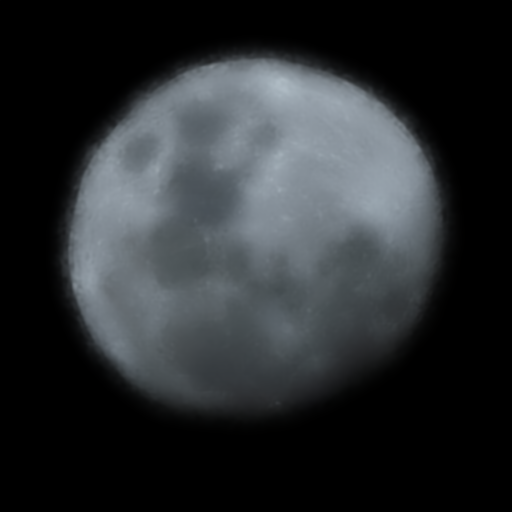
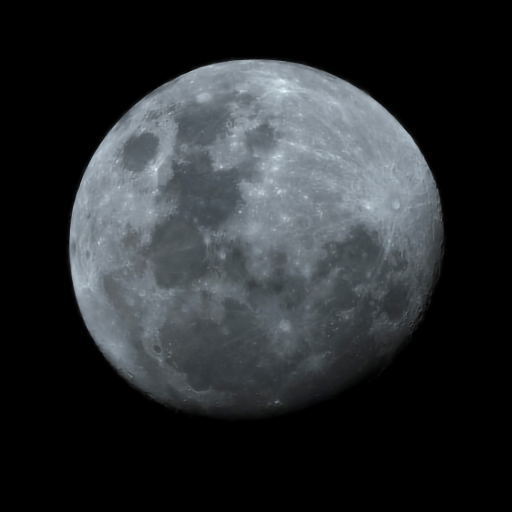
new images

diff --git a/app/page.tsx b/app/page.tsx
@@ -1,9 +1,9 @@
 import Image from "next/image"
 import Link from "next/link"
-import React from "react"
 import { Sidebar } from "../components/Sidebar"
 import { Button } from "../components/ui/button"
 import { ImageComparisonSlider } from "../components/ImageComparisonSlider"
+import React from "react" // Added import for React
 
 export default function Page() {
   const authors = [
@@ -15,10 +15,10 @@ export default function Page() {
   ]
 
   const links = [
-    { text: "Code", href: "#" },
-    { text: "PlanetSYN", href: "#" },
-    { text: "TechSYN", href: "#" },
-    { text: "AstroEV", href: "#" },
+    { text: "[Code]", href: "#" },
+    { text: "[PlanetSYN]", href: "#" },
+    { text: "[TechSYN]", href: "#" },
+    { text: "[AstroEV]", href: "#" },
   ]
 
   const images = [
@@ -29,14 +29,8 @@ export default function Page() {
       height: 350,
     },
     {
-      src: "/images/blf.png",
-      alt: "Baseline Comparison",
-      width: 800,
-      height: 200,
-    },
-    {
-      original: "/images/saturn2_blur.jpg",
-      enhanced: "/images/fixsatrun.jpg",
+      original: "/images/moon.png",
+      enhanced: "/images/bdm_moon.png",
       alt: "Moon Image Comparison",
       width: 400,
       height: 225,
@@ -94,6 +88,33 @@ export default function Page() {
   }
 
   const comparisonImages = [
+    // AstroDiff comparisons
+    [
+      { original: "/images/moon.png", enhanced: "/images/bdm_moon.png", alt: "Moon - AstroDiff" },
+      { original: "/images/merc.png", enhanced: "/images/bdm_merc.png", alt: "Mercury - AstroDiff" },
+      { original: "/images/jupiterb.png", enhanced: "/images/bdm_jup.png", alt: "Jupiter - AstroDiff" },
+    ],
+    // DATUM comparisons
+    [
+      { original: "/images/moon.png", enhanced: "/images/datum_moon.png", alt: "Moon - DATUM" },
+      { original: "/images/merc.png", enhanced: "/images/datum_merc.png", alt: "Mercury - DATUM" },
+      { original: "/images/jupiterb.png", enhanced: "/images/datum_jup.png", alt: "Jupiter - DATUM" },
+    ],
+    // TMT comparisons
+    [
+      { original: "/images/moon.png", enhanced: "/images/tmt_moon.png", alt: "Moon - TMT" },
+      { original: "/images/merc.png", enhanced: "/images/tmt_merc.png", alt: "Mercury - TMT" },
+      { original: "/images/jupiterb.png", enhanced: "/images/tmt_jup.png", alt: "Jupiter - TMT" },
+    ],
+    // ESTRNN comparisons
+    [
+      { original: "/images/moon.png", enhanced: "/images/estrnn_moon.png", alt: "Moon - ESTRNN" },
+      { original: "/images/merc.png", enhanced: "/images/estrnn_merc.png", alt: "Mercury - ESTRNN" },
+      { original: "/images/jupiterb.png", enhanced: "/images/estrnn_jup.png", alt: "Jupiter - ESTRNN" },
+    ],
+  ]
+
+  const realImageComparisons = [
     {
       original: "/images/sat_blur.png",
       enhanced: "/images/bdm_saturn.png",
@@ -187,21 +208,27 @@ export default function Page() {
             <div id="baseline-comparison" className="w-full max-w-3xl mb-12">
               <h2 className="text-2xl font-medium mb-4 text-center">Baseline Comparison</h2>
               <p className="text-center mb-4">
-                AstroDiff&apos;s performance comparison against 3 state-of-the-art turbulence mitigation models (ESTRNN,
-                TMT, DATUM) on planetary images on strong synthetic turbulence
+                AstroDiff&apos;s performance comparison against 3 state-of-the-art turbulence mitigation models (DATUM,
+                TMT, ESTRNN) on planetary images with strong synthetic turbulence
               </p>
               <div className="bg-[#f5f5dc] p-4 rounded-lg mb-8">
-                <Image
-                  src={images[1].src || "/placeholder.svg"}
-                  alt={images[1].alt}
-                  width={images[1].width}
-                  height={images[1].height}
-                  className="max-w-full h-auto"
-                />
+                {comparisonImages.map((row, rowIndex) => (
+                  <div key={rowIndex} className="flex flex-wrap justify-center gap-4 mb-8">
+                    {row.map((img, index) => (
+                      <div key={index} className="flex flex-col items-center">
+                        <ImageComparisonSlider
+                          originalImage={img.original}
+                          enhancedImage={img.enhanced}
+                          alt={img.alt}
+                          size={200}
+                        />
+                        <p className="mt-2 text-sm text-gray-600">{img.alt}</p>
+                      </div>
+                    ))}
+                  </div>
+                ))}
               </div>
-
-              {/* Performance Comparison Table */}
-              <div className="overflow-x-auto">
+              <div className="overflow-x-auto mt-8">
                 <table className="w-full border-collapse text-sm">
                   <thead>
                     <tr>
@@ -256,6 +283,10 @@ export default function Page() {
                   </tbody>
                 </table>
               </div>
+              <div className="text-center mt-4 text-sm text-gray-600">
+                <span className="mr-4">← Enhanced</span>
+                <span>Original →</span>
+              </div>
             </div>
 
             {/* Real-Image Results */}
@@ -267,7 +298,7 @@ export default function Page() {
               </p>
               <div className="bg-[#f5f5dc] p-4 rounded-lg">
                 <div className="flex flex-wrap justify-center gap-4">
-                  {comparisonImages.map((img, index) => (
+                  {realImageComparisons.map((img, index) => (
                     <div key={index} className="flex flex-col items-center">
                       <ImageComparisonSlider
                         originalImage={img.original}
